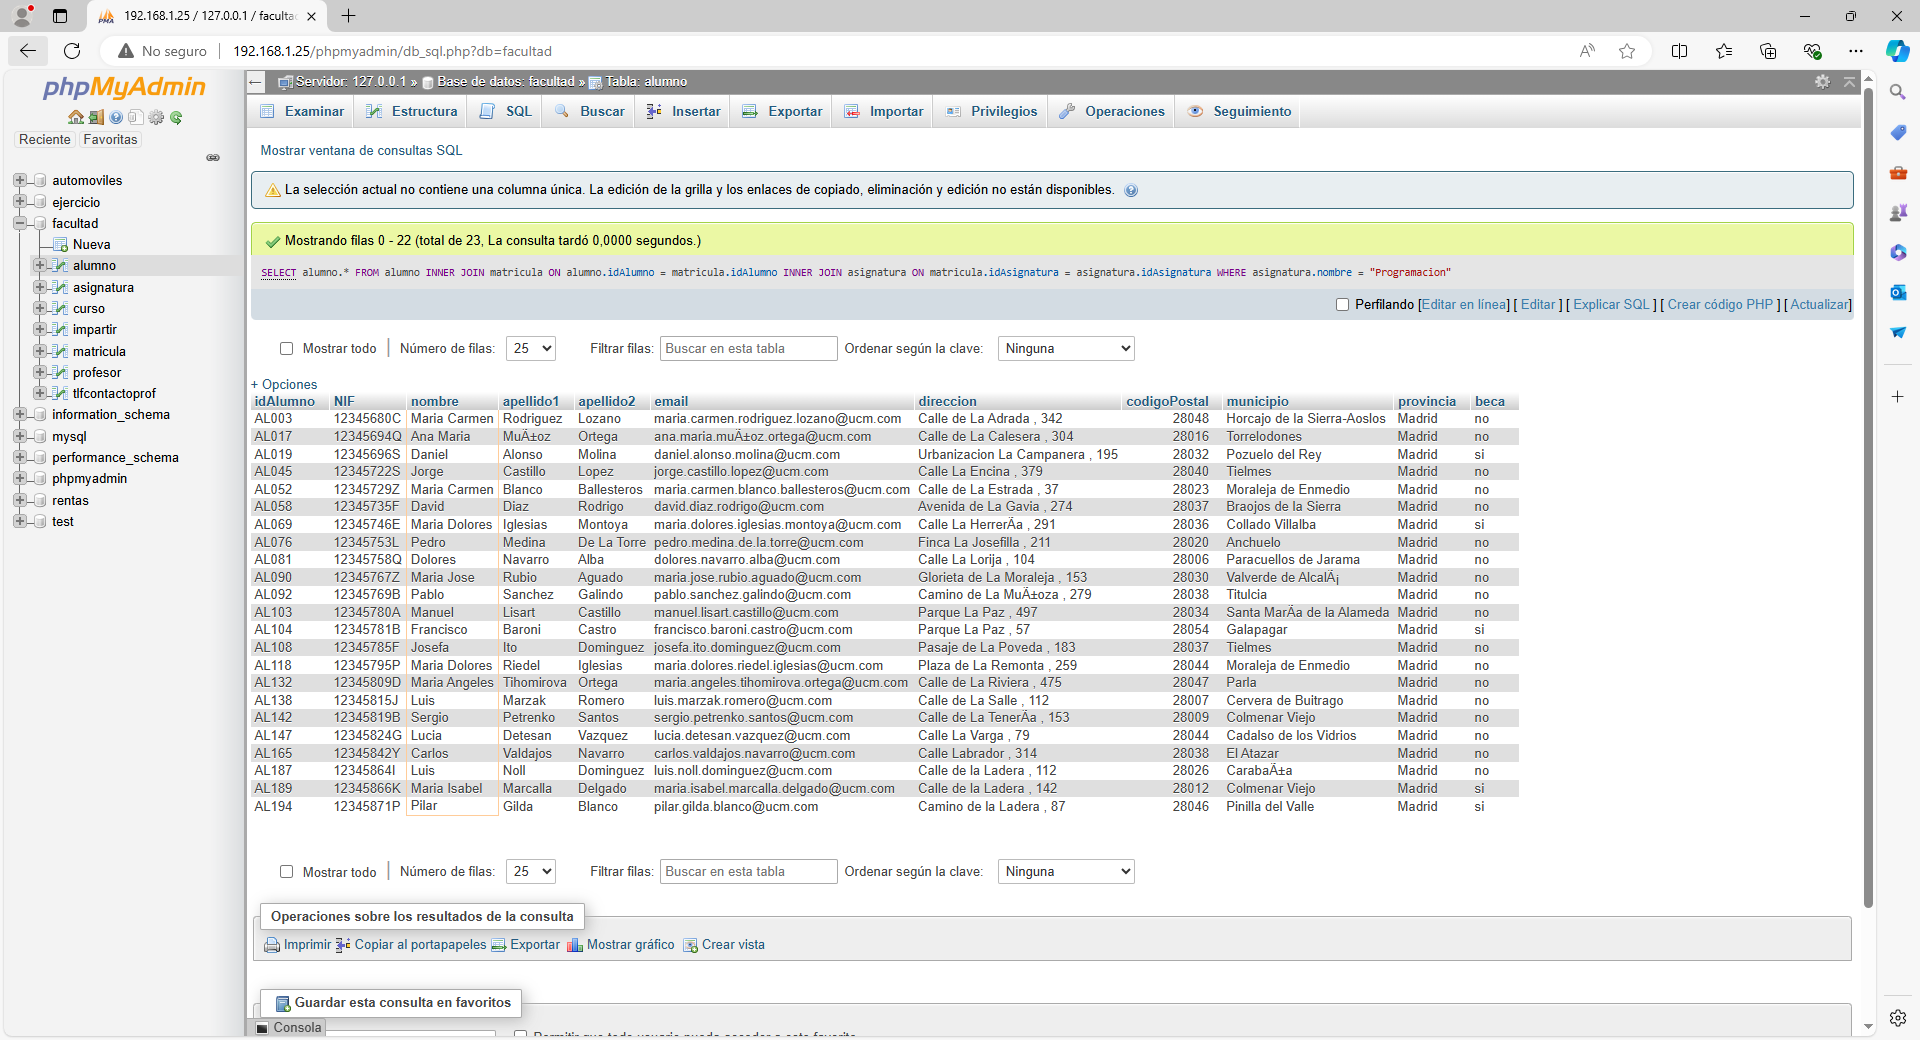
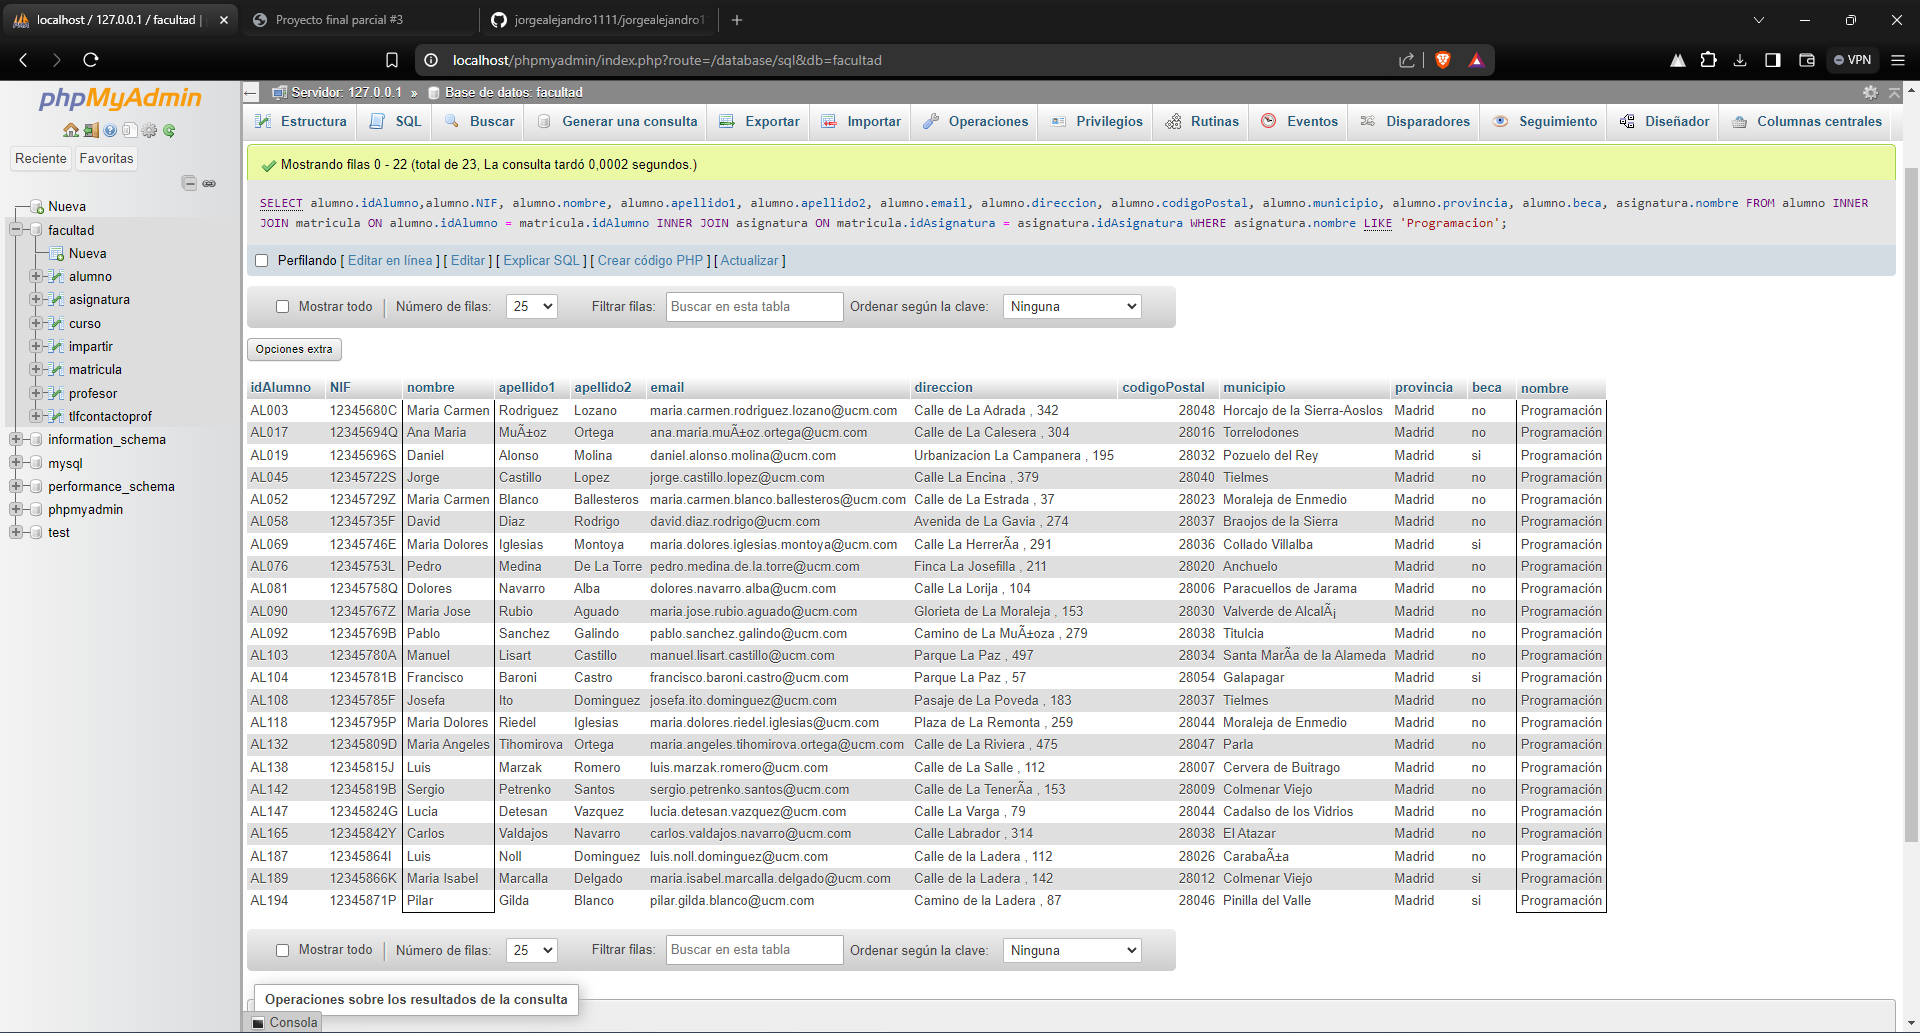
Corrección de algunas consultas 25/06/2024

diff --git a/Parcial 3/proyectofinal/index.html b/Parcial 3/proyectofinal/index.html
@@ -8,10 +8,10 @@
     <script src="js/jquery-3.7.1.js"></script>
 </head>
 <body style="background-image: url(rdr2.jpg); background-size: 100%;">
-    <center><h1 style="color: white;">Jorge Alejandro Castañeda Rivas, Proyecto parcial #3</h1> </center><br><br>
+    <center><h1 style="color: white; border: 3px solid rgb(66, 27, 27); background-color: rgb(66, 27, 27) ; width: 60%;">Jorge Alejandro Castañeda Rivas, Proyecto parcial #3</h1> </center><br><br>
 
     <center>
-        <div id="carouselExampleIndicators" class="carousel slide" data-bs-ride="carousel" style="width: 50%;">
+        <div id="carouselExampleIndicators" class="carousel slide" data-bs-ride="carousel" style="width: 60%;">
             <div class="carousel-indicators"><br><br>
               <button type="button" data-bs-target="#carouselExampleIndicators" data-bs-slide-to="0" class="active" aria-current="true" aria-label="Slide 1"></button>
               <button type="button" data-bs-target="#carouselExampleIndicators" data-bs-slide-to="1" aria-label="Slide 2"></button>
@@ -30,7 +30,7 @@
                     SELECT * FROM alumnos;
                   </div>
                 <img src="Consulta 1.png" class="d-block w-100" alt="...">
-                <p style="color: white;">Obtener el listado de todos los alumnos de la Facultad.</p>
+                <p style="color: white; border: 3px solid rgb(66, 27, 27); background-color: rgb(66, 27, 27) ;">Obtener el listado de todos los alumnos de la Facultad.</p>
               </div>
               
               <div class="carousel-item">
@@ -39,7 +39,7 @@
                     INNER JOIN asignatura ON curso.idCurso = asignatura.curso;
                   </div>
                 <img src="Consulta 2.png" class="d-block w-100" alt="...">
-                <p style="color: white;">Obtener el listado de cursos (nombre) y las asignaturas que tiene.</p>
+                <p style="color: white; border: 3px solid rgb(66, 27, 27); background-color: rgb(66, 27, 27) ;">Obtener el listado de cursos (nombre) y las asignaturas que tiene.</p>
 
               </div>
               <div class="carousel-item">
@@ -47,91 +47,75 @@
                   SELECT alumno.nombre, alumno.apellido1, alumno.apellido2 FROM alumno WHERE alumno.beca LIKE 'si%'
                 </div>
                 <img src="Consulta 3.png" class="d-block w-100" alt="...">
-                <p style="color: white;">Obtener el listado de alumnos que tengan beca.</p>
+                <p style="color: white; border: 3px solid rgb(66, 27, 27); background-color: rgb(66, 27, 27) ;">Obtener el listado de alumnos que tengan beca.</p>
               </div>
               <div class="carousel-item">
                 <div class="alert alert-primary" role="alert">
                   SELECT profesor.nombre,profesor.apellido1,profesor.apellido2, tlfcontactoprof.telefono FROM profesor INNER JOIN tlfcontactoprof ON tlfcontactoprof.idProfesor= profesor.idProfesor
                 </div>
                 <img src="Consulta 4.png" class="d-block w-100" alt="...">
-                <p style="color: white;">Obtener el listado de profesores (nombre y apellido), y su número de contacto.</p>
+                <p style="color: white; border: 3px solid rgb(66, 27, 27); background-color: rgb(66, 27, 27) ;">Obtener el listado de profesores (nombre y apellido), y su número de contacto.</p>
               </div>
               <div class="carousel-item">
                 <div class="alert alert-primary" role="alert">
-                  SELECT alumno.* FROM alumno INNER JOIN matricula ON alumno.idAlumno = matricula.idAlumno <br>
-                  INNER JOIN asignatura <br>
-                  ON matricula.idAsignatura = asignatura.idAsignatura WHERE asignatura.nombre = "Programacion"
+                  SELECT alumno.idAlumno,alumno.NIF, alumno.nombre, alumno.apellido1, alumno.apellido2, alumno.email, alumno.direccion, alumno.codigoPostal, alumno.municipio, alumno.provincia, alumno.beca, asignatura.nombre 
+                  FROM alumno INNER JOIN matricula ON alumno.idAlumno = matricula.idAlumno 
+                  INNER JOIN asignatura ON matricula.idAsignatura = asignatura.idAsignatura WHERE asignatura.nombre LIKE 'Programacion';
                 </div>
                 <img src="Consulta 5.PNG" class="d-block w-100" alt="...">
-                <p style="color: white;">Obtener el listado de los alumnos (todos los campos) que están inscritos a la asignatura de programación </p>
+                <p style="color: white; border: 3px solid rgb(66, 27, 27); background-color: rgb(66, 27, 27) ;">Obtener el listado de los alumnos (todos los campos) que están inscritos a la asignatura de programación </p>
               </div>
               <div class="carousel-item">
                 <div class="alert alert-primary" role="alert">
-                  SELECT profesor.*, asignatura.* FROM profesor INNER JOIN asignatura ON profesor.idProfesor = asignatura.coordinador ORDER BY profesor.nombre, asignatura.nombre
+                  SELECT profesor.nombre, profesor.apellido1, profesor.apellido2, asignatura.nombre FROM profesor INNER JOIN asignatura ON profesor.idProfesor = asignatura.coordinador;
                 </div>
                 <img src="Consulta 6.PNG" class="d-block w-100" alt="...">
-                <p style="color: white;">Obtener listado de los profesores y asignaturas que imparten</p>
+                <p style="color: white; border: 3px solid rgb(66, 27, 27); background-color: rgb(66, 27, 27) ;">Obtener listado de los profesores y asignaturas que imparten</p>
               </div>
               <div class="carousel-item">
                 <div class="alert alert-primary" role="alert">
-                  SELECT asignatura.nombre AS nombre_asignatura, COUNT(matricula.idAlumno) AS total_alumnos_inscritos FROM asignatura 
-                  INNER JOIN matricula 
-                  ON asignatura.idAsignatura = matricula.idAsignatura GROUP BY asignatura.idAsignatura ORDER BY total_alumnos_inscritos DESC
+                  SELECT asignatura.nombre AS Nombre_de_la_asignatura, COUNT(matricula.idAlumno) AS Total_de_alumnos FROM asignatura <br>
+                  INNER JOIN matricula ON asignatura.idAsignatura = matricula.idAsignatura GROUP BY asignatura.idAsignatura ORDER BY Total_de_alumnos DESC;
+
                 </div>
                 <img src="Consulta 7.PNG" class="d-block w-100" alt="...">
-                <p style="color: white;">Mostrar la asignatura que tiene mas alumnos inscritos y su total</p>
+                <p style="color: white; border: 3px solid rgb(66, 27, 27); background-color: rgb(66, 27, 27) ;">Mostrar la asignatura que tiene mas alumnos inscritos y su total</p>
               </div>
               <div class="carousel-item">
                 <div class="alert alert-primary" role="alert">
-                  SELECT alumno.* FROM alumno 
-                  INNER JOIN matricula 
-                  ON alumno.idAlumno = matricula.idAlumno INNER JOIN asignatura ON matricula.idAsignatura = asignatura.idAsignatura WHERE asignatura.coordinador = 'PR016'
+                  SELECT alumno.nombre, alumno.apellido1, alumno.apellido2, profesor.nombre, profesor.apellido1, profesor.apellido2, profesor.idProfesor FROM alumno <br>
+                  INNER JOIN matricula ON alumno.idAlumno = matricula.idAlumno INNER JOIN profesor <br>
+                  ON profesor.idProfesor = profesor.idProfesor WHERE profesor.idProfesor LIKE 'PR048';
                 </div>
                 <img src="Consulta 8.PNG" class="d-block w-100" alt="...">
-                <p style="color: white;">Obtener el listado de alumnos que les da clase el profesor con id PR048 (José Manuel) , sin importar en que asignatura esté inscrito.</p>
+                <p style="color: white; border: 3px solid rgb(66, 27, 27); background-color: rgb(66, 27, 27) ;">Obtener el listado de alumnos que les da clase el profesor con id PR048 (José Manuel) , sin importar en que asignatura esté inscrito.</p>
               </div>
               <div class="carousel-item">
                 <div class="alert alert-primary" role="alert">
-                  SELECT c.idCurso, c.nombreDescriptivo AS nombre_curso, a.idAsignatura, a.nombre AS nombre_asignatura, p.idProfesor, p.nombre AS nombre_profesor, p.apellido1 AS apellido1_profesor, p.apellido2 AS apellido2_profesor 
-                  FROM curso c JOIN asignatura a ON c.idCurso = a.curso JOIN impartir i ON a.idAsignatura = i.idAsignatura JOIN profesor p 
-                  ON i.idProfesor = p.idProfesor ORDER BY c.idCurso, a.idAsignatura, p.idProfesor
+                  SELECT curso.nombreDescriptivo, asignatura.nombre, profesor.nombre, profesor.apellido1, profesor.apellido2 FROM curso <br>
+                  JOIN asignatura ON curso.idCurso = asignatura.curso JOIN impartir ON asignatura.idAsignatura = impartir.idAsignatura <br>
+                  JOIN profesor ON impartir.idProfesor = profesor.idProfesor ORDER BY curso.idCurso, asignatura.idAsignatura, profesor.idProfesor;
                 </div>
                 <img src="Consulta 9.png" class="d-block w-100" alt="...">
-                <p style="color: white;">Obtener lista de cursos con asignatura y maestro que las imparte.</p>
+                <p style="color: white; border: 3px solid rgb(66, 27, 27); background-color: rgb(66, 27, 27) ;">Obtener lista de cursos con asignatura y maestro que las imparte.</p>
               </div>
               <div class="carousel-item">
                 <div class="alert alert-primary" role="alert">
-                  SELECT 
-                    alumno.idAlumno, 
-                    alumno.nombre AS nombre_alumno, 
-                    alumno.apellido1 AS apellido1_alumno, 
-                    alumno.apellido2 AS apellido2_alumno, 
-                    asignatura.idAsignatura, 
-                    asignatura.nombre AS nombre_asignatura, 
-                    profesor.idProfesor,
-                    profesor.nombre AS nombre_profesor, 
-                    profesor.apellido1 AS apellido1_profesor, 
-                    profesor.apellido2 AS apellido2_profesor, 
-                    curso.idCurso, 
-                    curso.nombreDescriptivo AS nombre_curso 
-                    FROM alumno JOIN matricula  ON alumno.idAlumno = matricula.idAlumno 
-                    JOIN asignatura  ON matricula.idAsignatura = asignatura.idAsignatura 
-                    JOIN impartir  ON asignatura.idAsignatura = impartir.idAsignatura 
-                    JOIN profesor  ON impartir.idProfesor = profesor.idProfesor 
-                    JOIN curso  ON asignatura.curso = curso.idCurso 
-                    ORDER BY 
-                    alumno.idAlumno, asignatura.idAsignatura
+                  SELECT alumno.nombre, alumno.apellido1, alumno.apellido2, asignatura.nombre, profesor.nombre, profesor.apellido1, profesor.apellido2, curso.nombreDescriptivo FROM alumno <br>
+                  JOIN matricula ON alumno.idAlumno = matricula.idAlumno JOIN asignatura ON matricula.idAsignatura = asignatura.idAsignatura <br>
+                  JOIN impartir ON asignatura.idAsignatura = impartir.idAsignatura JOIN profesor ON impartir.idProfesor = profesor.idProfesor <br>
+                  JOIN curso ON asignatura.curso = curso.idCurso ORDER BY alumno.idAlumno, asignatura.idAsignatura;
                 </div>
                 <img src="Consulta 10.png" class="d-block w-100" alt="...">
-                <p style="color: white;">Obtener listado de alumnos con asignaturas que cursan, profesor que las imparte y curso a que pertenecen.</p>
+                <p style="color: white; border: 3px solid rgb(66, 27, 27); background-color: rgb(66, 27, 27) ;">Obtener listado de alumnos con asignaturas que cursan, profesor que las imparte y curso a que pertenecen.</p>
               </div>
             </div><br><br><br>
             </center>
-        <button class="carousel-control-prev" type="button" data-bs-target="#carouselExampleIndicators" data-bs-slide="prev" style="background-color: gray;">
+        <button class="carousel-control-prev" type="button" data-bs-target="#carouselExampleIndicators" data-bs-slide="prev" style="color: white; border: 3px solid rgb(66, 27, 27); background-color: rgb(66, 27, 27) ;">
         <span class="carousel-control-prev-icon" aria-hidden="true"></span>
         <span class="visually-hidden">Previous</span>
       </button>
-      <button class="carousel-control-next" type="button" data-bs-target="#carouselExampleIndicators" data-bs-slide="next" style="background-color: gray;">
+      <button class="carousel-control-next" type="button" data-bs-target="#carouselExampleIndicators" data-bs-slide="next" style="color: white; border: 3px solid rgb(66, 27, 27); background-color: rgb(66, 27, 27) ;">
         <span class="carousel-control-next-icon" aria-hidden="true"></span>
         <span class="visually-hidden">Next</span>
       </button>
